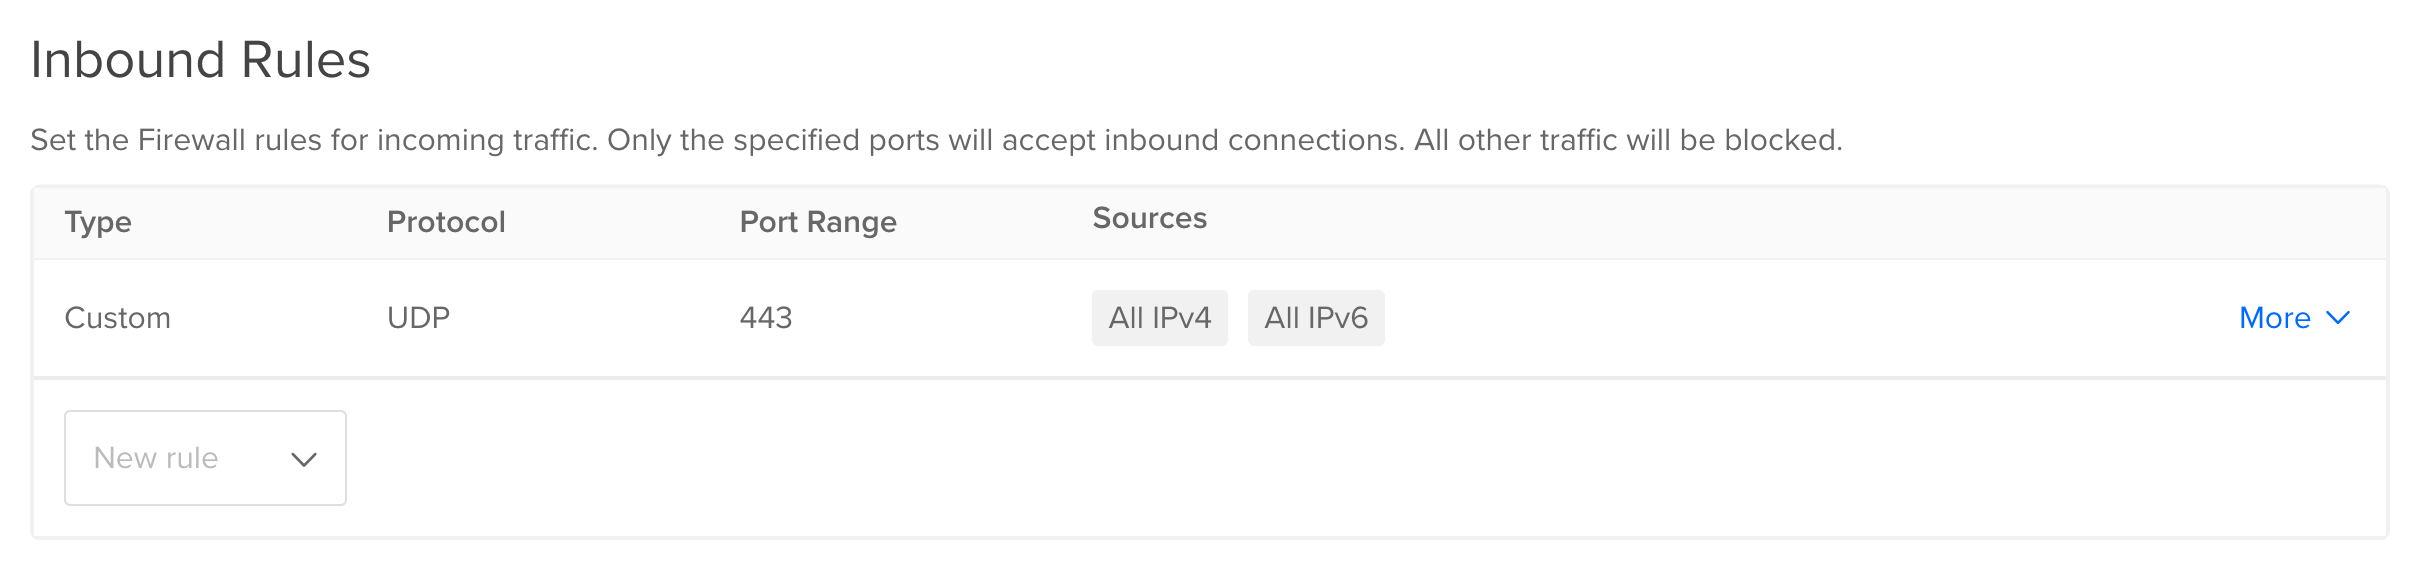
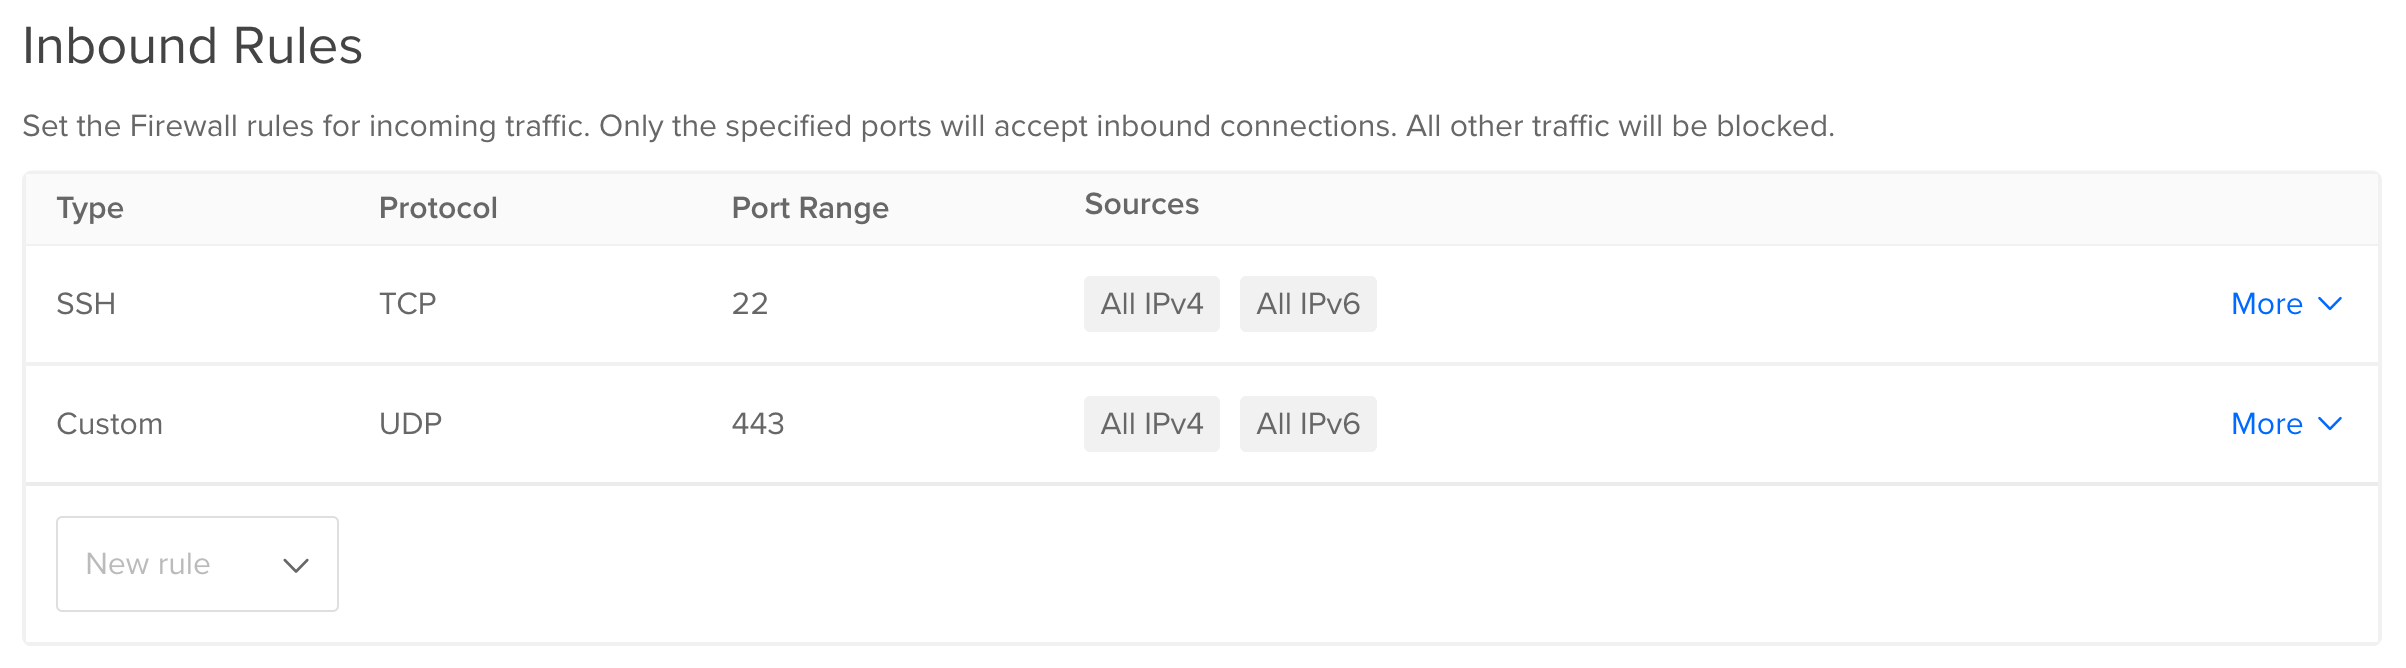
Update digital ocean docs to use the 1-Click-App

diff --git a/source/simple-setup.rst b/source/simple-setup.rst
@@ -1,25 +1,21 @@
 Simple Setup Guide
 ==================
 
-This guide is a walkthrough tutorial on setting up UH VPN. It contains step by step instructions
-on how to provision a private cloud server along with all the necessary steps on setting up UH VPN
-client applications.
+This guide is a walkthrough tutorial on setting up UH VPN on `Digital Ocean`_. It contains step by step
+instructions on how to provision a private cloud server along with all the necessary steps on setting
+up UH VPN client applications.
 
-The guide uses the cloud provider `Digital Ocean`_ to create servers for UH VPN as it's simple and
-ideal for beginners, but this can be substituted for any other cloud provider (AWS, Azure etc...)
-or an on-premise server if you have one.
+The guide makes use of the "`1 Click App`_" available on Digital Ocean to create servers for UH VPN
+as this provisioning technique allows an entire UH VPN deployment to be set up in less than 5 minutes!
 
-If you wish to explore UH VPN advanced options or modify the sample deployments consult the extensive
-documentation on this site.
-
-- `Step 1: Create a Digital Ocean Server`_
+- `Step 1: Create a Digital Ocean Droplet`_
 - `Step 2: Create a Server on the UH VPN Website`_
-- `Step 3: Setting up the Droplet with UH VPN`_
+- `Step 3: Configuring the Droplet`_
 - `Step 4: Installing Client Apps`_
 
 
-Step 1: Create a Digital Ocean Server
-~~~~~~~~~~~~~~~~~~~~~~~~~~~~~~~~~~~~~
+Step 1: Create a Digital Ocean Droplet
+~~~~~~~~~~~~~~~~~~~~~~~~~~~~~~~~~~~~~~
 
 First create an account or login at: `Digital Ocean`_. Then click the "Create Droplets" button as shown in
 the screenshot below:
@@ -34,15 +30,21 @@ One is then presented with a droplet creation page as follows:
   :width: 600
   :alt: Droplet Creation Page
 
+Press the "Marketplace" tab and search for "UH VPN". Once selected, a UH VPN image will
+be chosen:
+
+.. image:: /_static/simple-setup/marketplace-tab.png
+  :width: 600
+  :alt: Marketplace Tab
+
 Ensure the settings are selected as shown below:
 
-- **Distribution** : Ubuntu 18.04
 - **Plan** : Standard
 - **Price** : $5 per month
 - **Region** : Choose location closest to you unless you have a specific requirement
 - **VPC** : No VPC
 - **Additional Options** : None
-- **SSH Key** : Select one-time password unless you're familiar with SSH (if so upload your public key).
+- **SSH Key** : Select your SSH key.
 - **Number of Droplets** : 1
 - **Hostname** : Any friendly name you'd like to give to your server. E.g. "UH-VPN".
 - **Tags** : None
@@ -79,10 +81,6 @@ are defined to match the specification below:
 .. image:: /_static/simple-setup/outbound-rules.png
   :width: 600
   :alt: Outbound Rules
-
-.. note::
-    If you are connecting to your instance via SSH, then also add rules to allow SSH connections to the
-    Droplet.
 
 Finally, ensure the firewall is associated to the droplet you created earlier. E.g. UH-VPN. Then
 press "Create Firewall". The Droplet is now firewalled against adversaries and ready for UH VPN.
@@ -140,82 +138,30 @@ Press submit and the server will then be created.
 Once created, press the |key_icon| icon to obtain a UH VPN API token for the server. Copy
 and paste this to somewhere safe as it'll be used later.
 
-Step 3: Setting up the Droplet with UH VPN
-~~~~~~~~~~~~~~~~~~~~~~~~~~~~~~~~~~~~~~~~~~
+Step 3: Configuring the Droplet
+~~~~~~~~~~~~~~~~~~~~~~~~~~~~~~~
 
-If you configured the droplet earlier using SSH keys then SSH into your droplet now, otherwise
-head over to `Digital Ocean`_. Then click on the droplet you created earlier, click the "Access" Tab
-and press the "Launch Console" button. A popup will display:
+Login to the newly created droplet via SSH using the username "root". Once logged in, a UH VPN
+setup script will appear:
 
-.. image:: /_static/simple-setup/console-popup.png
-  :width: 300
-  :alt: Console Popup
+.. image:: /_static/simple-setup/setup-wizard.png
+  :width: 400
+  :alt: Setup Wizard
 
-Login to the droplet using the username "root" and the password emailed to you by Digital Ocean.
-If you didn't set up the droplet with SSH, you'll be asked to set a password when first logging
-in.
+Simply paste the UH VPN API token obtained in step 2 into the prompt and press Enter:
 
-The first step is to add Ultra Horizon's package archive to the system sources.
+.. image:: /_static/simple-setup/prompt.png
+  :width: 450
+  :alt: Prompt
 
-.. code-block:: bash
+Only one token is going to be added as we only wish to associate one server to this droplet, so
+answer with "n":
 
-    sudo add-apt-repository ppa:ultrahorizon/ppa
+.. image:: /_static/simple-setup/complete.png
+  :width: 450
+  :alt: Complete
 
-.. image:: /_static/simple-setup/ppa-confirm.png
-  :width: 500
-  :alt: PPA Confirm
-
-A prompt will then display information about the repository, accept this, then download the package information
-from this newly added archive:
-
-.. code-block:: bash
-
-    sudo apt-get update
-
-Once this is done, UH VPN Server software can now be downloaded through the apt package manager.
-
-.. code-block:: bash
-
-    sudo apt-get install uh-vpn-server
-
-Once installed check that the UH VPN Service is running:
-
-.. code-block:: bash
-
-    sudo service uh-vpn-server status
-
-The output should say **active (running)** as depicted below:
-
-.. image:: /_static/servers/service_status.png
-  :width: 600
-  :alt: Expected status
-
-Then to ensure UH VPN Server starts at boot, issue the following command:
-
-.. code-block:: bash
-
-    sudo systemctl enable uh-vpn-server
-
-Next it's time to add the UH VPN Server API token we obtained earlier. This will
-enable the UH VPN Server software to set up the VPN server on our Droplet.
-
-.. code-block:: bash
-
-    sudo nano /etc/uh-vpn-server/tokens
-
-This will bring up an editor prompt like so:
-
-.. image:: /_static/servers/token_store.png
-  :width: 600
-  :alt: Token store
-
-In this example, the token (``0123456...``) has been appended to the file. Once this is done,
-save the file and exit the editor (Ctrl-X in nano).
-
-The server is now configured and it's safe to logout of the Droplet.
-
-.. note::
-    For advanced configurations of the server software follow the `server documentation`_.
+The droplet is now successfully configured and ready to accept UH VPN connections!
 
 Step 4: Installing Client Apps
 ~~~~~~~~~~~~~~~~~~~~~~~~~~~~~~
@@ -256,14 +202,13 @@ the profile. Then you can **connect and enjoy a fast, secure and private VPN con
     Instructions for client apps can be found on the `clients docs page`_.
 
 
+.. _1 Click App: https://marketplace.digitalocean.com/apps/uh-vpn
 .. _Digital Ocean: https://www.digitalocean.com/
-.. _installation instructions: servers/installation.html
 .. _website: https://uh-vpn.com
 .. _create an account: https://uh-vpn.com/auth/signup
 .. _Creating Groups: website/groups/creating.html
 .. _server creation docs page: website/servers/creating.html
 .. |key_icon| image:: /_static/icons/key.svg
   :alt: Key Icon
-.. _server documentation: servers/index.html
 .. _device creation docs page: website/devices/creating.html
 .. _clients docs page: clients/index.html

diff --git a/source/website/servers/api-tokens.rst b/source/website/servers/api-tokens.rst
@@ -10,8 +10,11 @@ be presented with a modal as shown below:
   :width: 400
   :alt: Token Modal
 
-One simply needs to copy the token (shown in pink) and follow the `adding servers`_ instructions
-in order to link the server software with the UH VPN API.
+One simply needs to copy the token (shown in pink) and either follow:
+
+- `UH VPN Setup Script`_ available if using our `Digital Ocean Image`_
+- `Adding servers`_ instructions in order to link the server software with the UH VPN API
+  if using a vanilla Ubuntu installation.
 
 If a token has been compromised, the "Regenerate" button can be used to create a new token for the
 server in question. **This will instantly revoke the old API token**
@@ -20,4 +23,6 @@ server in question. **This will instantly revoke the old API token**
   :alt: Key Icon
 
 .. _website: https://uh-vpn.com
+.. _UH VPN Setup Script: ../../simple-setup.html#step-3-configuring-the-droplet
+.. _Digital Ocean Image: https://marketplace.digitalocean.com/apps/uh-vpn
 .. _adding servers: ../../servers/adding-servers.html

diff --git a/source/index.rst b/source/index.rst
@@ -12,10 +12,10 @@ which can be downloaded for offline use.
 ..  toctree::
     :maxdepth: 2
 
+    simple-setup
     website/index
     servers/index
     clients/index
-    simple-setup
     support
 
 .. _maintained with the help of the community: https://github.com/ultrahorizon/UH-VPN-Docs
